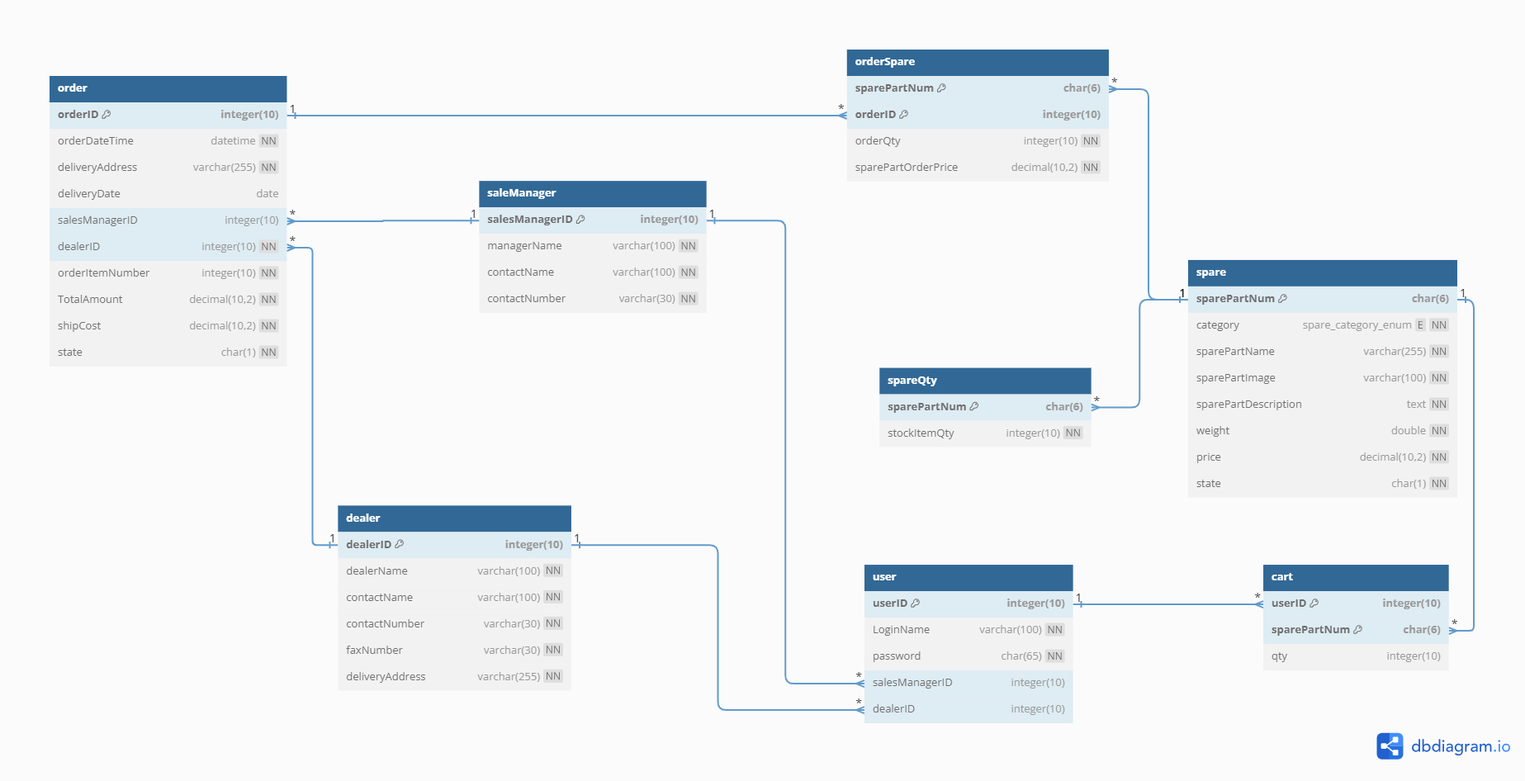
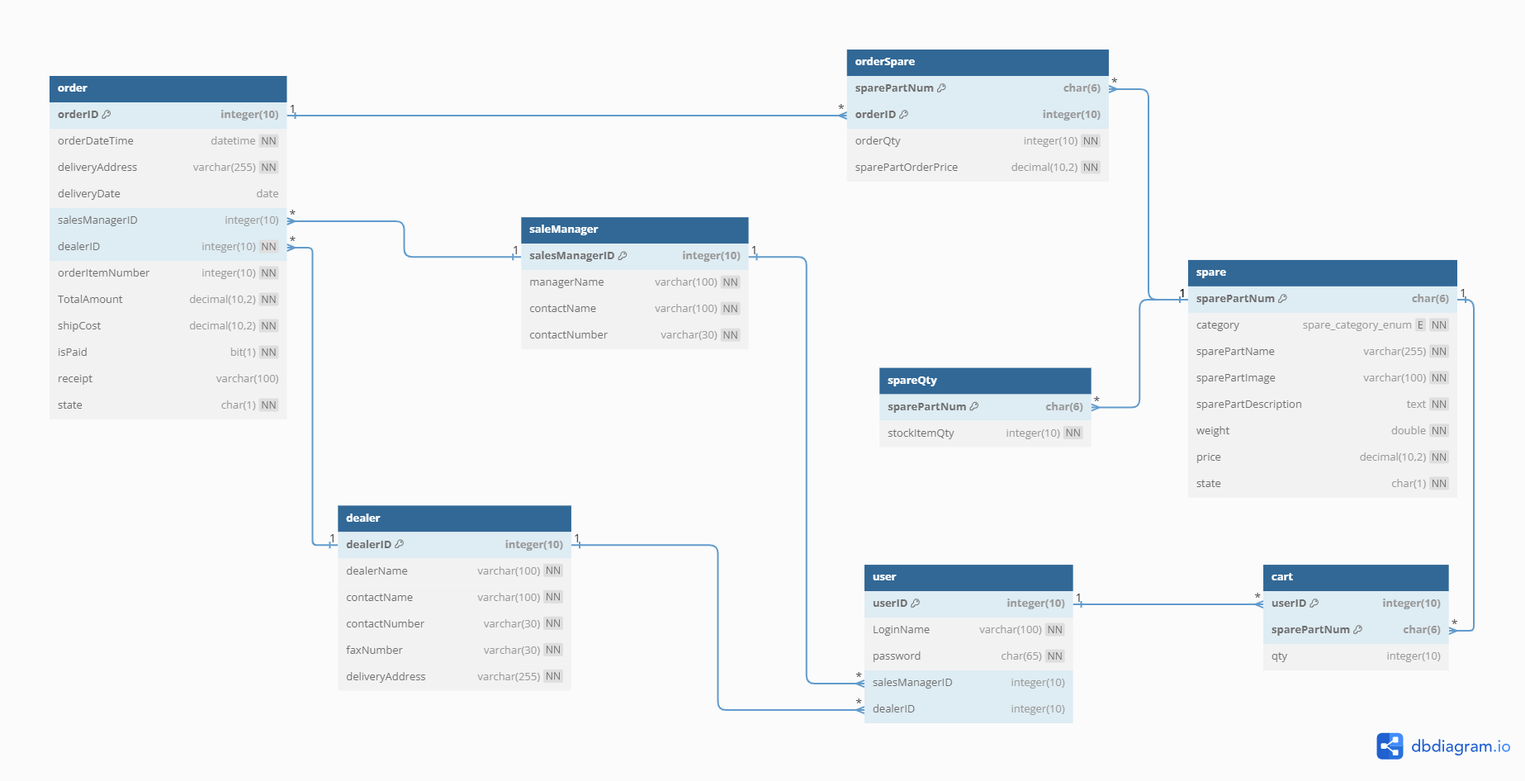
chore: Update database creation script, remove unused files, and fix SQL query in query.php

Changed region(s): [[0.2469, 0.2146, 0.5246, 0.4598], [0.1543, 0.4598, 0.1852, 0.5211], [0.0309, 0.4292, 0.0617, 0.4905]]

diff --git a/website/js/FPS.js b/website/js/FPS.js
@@ -1,0 +1,18 @@
+!function(t){var e={};function n(i){if(e[i])return e[i].exports;var r=e[i]={i:i,l:!1,exports:{}};return t[i].call(r.exports,r,r.exports,n),r.l=!0,r.exports}n.m=t,n.c=e,n.d=function(t,e,i){n.o(t,e)||Object.defineProperty(t,e,{enumerable:!0,get:i})},n.r=function(t){"undefined"!=typeof Symbol&&Symbol.toStringTag&&Object.defineProperty(t,Symbol.toStringTag,{value:"Module"}),Object.defineProperty(t,"__esModule",{value:!0})},n.t=function(t,e){if(1&e&&(t=n(t)),8&e)return t;if(4&e&&"object"==typeof t&&t&&t.__esModule)return t;var i=Object.create(null);if(n.r(i),Object.defineProperty(i,"default",{enumerable:!0,value:t}),2&e&&"string"!=typeof t)for(var r in t)n.d(i,r,function(e){return t[e]}.bind(null,r));return i},n.n=function(t){var e=t&&t.__esModule?function(){return t.default}:function(){return t};return n.d(e,"a",e),e},n.o=function(t,e){return Object.prototype.hasOwnProperty.call(t,e)},n.p="",n(n.s=12)}([function(t,e,n){"use strict";Object.defineProperty(e,"__esModule",{value:!0}),e.USEFUL_CONSTANT=e.ADDITIONAL_INFO_REQUEST=e.ADDITIONAL_INFO_PURPOSE=e.ADDITIONAL_INFO_TERMINAL=e.ADDITIONAL_INFO_CUSTOMER=e.ADDITIONAL_INFO_REFERENCE=e.ADDITIONAL_INFO_LOYALTY=e.ADDITIONAL_INFO_STORE=e.ADDITIONAL_INFO_MOBILE=e.ADDITIONAL_INFO_BILL=e.MERCHANT_INFO_CITY=e.MERCHANT_INFO_NAME=e.MERCHANT_INFO_LANGUAGE=e.MERCHANT_ACCOUNT_IDENTIFIER_EMAIL=e.MERCHANT_ACCOUNT_IDENTIFIER_MOBILE=e.MERCHANT_ACCOUNT_IDENTIFIER_FPS=e.MERCHANT_ACCOUNT_PARTICIPANT=e.MERCHANT_ACCOUNT_UNIQUE=e.DYNAMIC_QR_CODE=e.STATIC_QR_CODE=e.LOCALIZE_MERCHANT=e.CYCLIC_REDUNDANCY_CHECK=e.ADDITIONAL_INFORMATION=e.POSTAL_CODE=e.MERCHANT_CITY=e.MERCHANT_NAME=e.COUNTRY_CODE=e.CONVENIENCE_FEE_PERCENT=e.CONVENIENCE_FEE_FIXED=e.CONVENIENCE_FEE_INDICATOR=e.TRANSACTION_AMOUNT=e.TRANSACTION_CURRENCY=e.MERCHANT_CATEGORY_CODE=e.INITIATION_POINT=e.FORMAT_INDICATOR=void 0,e.FORMAT_INDICATOR="00",e.INITIATION_POINT="01",e.MERCHANT_CATEGORY_CODE="52",e.TRANSACTION_CURRENCY="53",e.TRANSACTION_AMOUNT="54",e.CONVENIENCE_FEE_INDICATOR="55",e.CONVENIENCE_FEE_FIXED="56",e.CONVENIENCE_FEE_PERCENT="57",e.COUNTRY_CODE="58",e.MERCHANT_NAME="59",e.MERCHANT_CITY="60",e.POSTAL_CODE="61",e.ADDITIONAL_INFORMATION="62",e.CYCLIC_REDUNDANCY_CHECK="63",e.LOCALIZE_MERCHANT="64",e.STATIC_QR_CODE="11",e.DYNAMIC_QR_CODE="12",e.MERCHANT_ACCOUNT_UNIQUE="00",e.MERCHANT_ACCOUNT_PARTICIPANT="01",e.MERCHANT_ACCOUNT_IDENTIFIER_FPS="02",e.MERCHANT_ACCOUNT_IDENTIFIER_MOBILE="03",e.MERCHANT_ACCOUNT_IDENTIFIER_EMAIL="04",e.MERCHANT_INFO_LANGUAGE="00",e.MERCHANT_INFO_NAME="01",e.MERCHANT_INFO_CITY="02",e.ADDITIONAL_INFO_BILL="01",e.ADDITIONAL_INFO_MOBILE="02",e.ADDITIONAL_INFO_STORE="03",e.ADDITIONAL_INFO_LOYALTY="04",e.ADDITIONAL_INFO_REFERENCE="05",e.ADDITIONAL_INFO_CUSTOMER="06",e.ADDITIONAL_INFO_TERMINAL="07",e.ADDITIONAL_INFO_PURPOSE="08",e.ADDITIONAL_INFO_REQUEST="09",e.USEFUL_CONSTANT={BANK_STANDARD_CHARTERED:"003",BANK_HSBC:"004",BANK_BANK_OF_CHINA:"012",BANK_EAST_ASIA:"015",BANK_DBS:"016",BANK_HANG_SANG:"024",BANK_CITIBANK:"250",BANK_WECHAT:"931",BANK_TAP_N_GO:"935",BANK_TNG:"947",BANK_ALIPAY:"948",BANK_OCTOPUS:"949",BANK_PAYME:"954",CURRENCY_HKD:"HKD",CURRENCY_CNY:"CNY",CURRENCY_TWD:"TWD",CURRENCY_USD:"USD",LANGUAGE_CHINESE:"ZH",LANGUAGE_ENGLISH:"EN",LOCATION_HONG_KONG:"HK",LOCATION_CHINA:"CN",LOCATION_TAIWAN:"TW",LOCATION_MACAO:"MO",LOCATION_USA:"US",LOCATION_UK:"GB",MERCHANT_ID_FPS:"26",FPS_EMAIL_IRD_PROFITS_TAX:"FPS_Identifier_CRC201A@ird.gov.hk",FPS_EMAIL_IRD_SALARIES_TAX:"FPS_Identifier_CRC201B@ird.gov.hk",FPS_EMAIL_IRD_PERSONAL_ASSESSMENT:"FPS_Identifier_CRC201D@ird.gov.hk",FPS_EMAIL_WSD:"wsdinfo@wsd.gov.hk",FPS_ID_CLP:"4853305"}},function(t,e,n){"use strict";Object.defineProperty(e,"__esModule",{value:!0});let i=!1;e.default=class{constructor(){this.error=!1,this.data="Success"}static Silent(){i=!0}isError(){return this.error}setError(t="",e=!1){if(this.error=!0,this.message=t,delete this.data,!e&&!i)throw this.message}}},function(t,e,n){"use strict";Object.defineProperty(e,"__esModule",{value:!0});const i=[0,4129,8258,12387,16516,20645,24774,28903,33032,37161,41290,45419,49548,53677,57806,61935,4657,528,12915,8786,21173,17044,29431,25302,37689,33560,45947,41818,54205,50076,62463,58334,9314,13379,1056,5121,25830,29895,17572,21637,42346,46411,34088,38153,58862,62927,50604,54669,13907,9842,5649,1584,30423,26358,22165,18100,46939,42874,38681,34616,63455,59390,55197,51132,18628,22757,26758,30887,2112,6241,10242,14371,51660,55789,59790,63919,35144,39273,43274,47403,23285,19156,31415,27286,6769,2640,14899,10770,56317,52188,64447,60318,39801,35672,47931,43802,27814,31879,19684,23749,11298,15363,3168,7233,60846,64911,52716,56781,44330,48395,36200,40265,32407,28342,24277,20212,15891,11826,7761,3696,65439,61374,57309,53244,48923,44858,40793,36728,37256,33193,45514,41451,53516,49453,61774,57711,4224,161,12482,8419,20484,16421,28742,24679,33721,37784,41979,46042,49981,54044,58239,62302,689,4752,8947,13010,16949,21012,25207,29270,46570,42443,38312,34185,62830,58703,54572,50445,13538,9411,5280,1153,29798,25671,21540,17413,42971,47098,34713,38840,59231,63358,50973,55100,9939,14066,1681,5808,26199,30326,17941,22068,55628,51565,63758,59695,39368,35305,47498,43435,22596,18533,30726,26663,6336,2273,14466,10403,52093,56156,60223,64286,35833,39896,43963,48026,19061,23124,27191,31254,2801,6864,10931,14994,64814,60687,56684,52557,48554,44427,40424,36297,31782,27655,23652,19525,15522,11395,7392,3265,61215,65342,53085,57212,44955,49082,36825,40952,28183,32310,20053,24180,11923,16050,3793,7920];e.default=function(t){let e,n,r,N=65535;for(n=0;n<t.length;n++){if(r=t.charCodeAt(n),r>255)throw new RangeError;e=255&(r^N>>8),N=i[e]^N<<8}return(65535&(0^N)).toString(16).toUpperCase()}},function(t,e,n){"use strict";function i(t){let e=t.slice(0,2),n=/\d\d/;if(n.test(e)&&(t=t.slice(2),n.test(t.slice(0,2)))){let n=parseInt(t.slice(0,2));if(n>0&&t.length-2>=n){return{id:e,content:(t=t.slice(2)).slice(0,n),remain:t.slice(n)}}}return!1}Object.defineProperty(e,"__esModule",{value:!0}),e.extract=e.extractContent=e.numberToValidId=e.isAlphanumericSpecial=void 0,e.isAlphanumericSpecial=function(t){return/^[A-z0-9.@_+-]+$/.test(t)},e.numberToValidId=function(t){return(t<0||t>99)&&(t=0),("00"+t).slice(-2)},e.extractContent=i,e.extract=function t(e){let n,r={};for(;n=i(e);){e=n.remain;let i=t(n.content);2==i.length?r[n.id]=n.content:r[n.id]=i[0]}return 0==e.length?[r]:[r,{"00":e}]}},,,,,,,,,function(t,e,n){"use strict";var i=this&&this.__importDefault||function(t){return t&&t.__esModule?t:{default:t}};Object.defineProperty(e,"__esModule",{value:!0});const r=i(n(1)),N=i(n(2)),a=n(3),A=n(13),o=n(0),_=n(0);class I{constructor(){this.formatIndicator="01",this.initiationPoint="11",this.merchantAccount="26",this.merchantAccountInfo={uniqueIdentifier:"hk.com.hkicl"},this.merchantCategory="0000",this.transactionCurrency="HKD",this.countryCode="HK",this.merchantName="NA",this.merchantCity="HK"}static Silent(){r.default.Silent()}static get BANK_STANDARD_CHARTERED(){return o.USEFUL_CONSTANT.BANK_STANDARD_CHARTERED}static get BANK_HSBC(){return o.USEFUL_CONSTANT.BANK_HSBC}static get BANK_BANK_OF_CHINA(){return o.USEFUL_CONSTANT.BANK_BANK_OF_CHINA}static get BANK_EAST_ASIA(){return o.USEFUL_CONSTANT.BANK_EAST_ASIA}static get BANK_DBS(){return o.USEFUL_CONSTANT.BANK_DBS}static get BANK_HANG_SANG(){return o.USEFUL_CONSTANT.BANK_HANG_SANG}static get BANK_CITIBANK(){return o.USEFUL_CONSTANT.BANK_CITIBANK}static get BANK_WECHAT(){return o.USEFUL_CONSTANT.BANK_WECHAT}static get BANK_TAP_N_GO(){return o.USEFUL_CONSTANT.BANK_TAP_N_GO}static get BANK_TNG(){return o.USEFUL_CONSTANT.BANK_TNG}static get BANK_ALIPAY(){return o.USEFUL_CONSTANT.BANK_ALIPAY}static get BANK_OCTOPUS(){return o.USEFUL_CONSTANT.BANK_OCTOPUS}static get BANK_PAYME(){return o.USEFUL_CONSTANT.BANK_PAYME}static get CURRENCY_HKD(){return o.USEFUL_CONSTANT.CURRENCY_HKD}static get CURRENCY_CNY(){return o.USEFUL_CONSTANT.CURRENCY_CNY}static get CURRENCY_TWD(){return o.USEFUL_CONSTANT.CURRENCY_TWD}static get CURRENCY_USD(){return o.USEFUL_CONSTANT.CURRENCY_USD}static get FPS_EMAIL_IRD_PROFITS_TAX(){return o.USEFUL_CONSTANT.FPS_EMAIL_IRD_PROFITS_TAX}static get FPS_EMAIL_IRD_SALARIES_TAX(){return o.USEFUL_CONSTANT.FPS_EMAIL_IRD_SALARIES_TAX}static get FPS_EMAIL_IRD_PERSONAL_ASSESSMENT(){return o.USEFUL_CONSTANT.FPS_EMAIL_IRD_PERSONAL_ASSESSMENT}static get FPS_ID_CLP(){return o.USEFUL_CONSTANT.FPS_ID_CLP}payload(t,e=""){return`${t}${a.numberToValidId(e.length)}${e}`}setAlphanumericSpecial(t,e){let n=new r.default;return void 0===t?n.setError("Not Specified",!0):t.length>e?n.setError(`Length Exceeds Limit (>${e})`,!0):a.isAlphanumericSpecial(t)||n.setError("Should Contains Certain Characters Only (A-z0-9.@_+-)",!0),n}setNumeric(t,e=!1,n=13){let i,N=new r.default;return void 0===t?N.setError("Not Specified",!0):i="string"==typeof t?t:"number"==typeof e?t.toFixed(e):t.toString(),N.isError()||(/^[0-9.]+$/.test(i)?parseFloat(i)<=0?N.setError("Exceeds Limit (<=0)",!0):i.length>n?N.setError(`Length Exceeds Limit (>${n}) (Including "." Character)`,!0):N.data=i:N.setError("Should Contains Certain Characters Only (0-9.)",!0)),N}parse(t){let e=this.extract(t);if(e.isError())return e;let n=JSON.parse(JSON.stringify(e.data));for(let t in n){if(e.isError())break;let i=n[t];if(t==o.FORMAT_INDICATOR);else if(t==o.INITIATION_POINT)i==_.STATIC_QR_CODE||i==_.DYNAMIC_QR_CODE?this.initiationPoint=i:e.setError(`Invalid Initiation Point (id=${t})`);else if(t==o.TRANSACTION_CURRENCY){i=i.toUpperCase();let n=Object.keys(A.FPS_CURRENCY_LIST).filter(t=>A.FPS_CURRENCY_LIST[t]==i);n.length>0?this.setCurrency(n[0]):e.setError(`Invalid Transaction Currency (id=${t})`)}else t==o.TRANSACTION_AMOUNT?this.setAmount(i):t==o.MERCHANT_NAME?this.merchantName=i:t==o.MERCHANT_CITY?this.merchantCity=i:t==o.ADDITIONAL_INFORMATION?this.setAdditionalInfo(i):t==o.CYCLIC_REDUNDANCY_CHECK||t==this.merchantAccount&&this.setMerchantAccount(i)}return e}extract(t=""){let e=new r.default;if(0==t.length){if(e=this.generate(),e.isError())return e;t=e.data,delete e.data}let n=a.extract(t);if(1==n.length){let i=n[0],r=i[o.CYCLIC_REDUNDANCY_CHECK],a=o.CYCLIC_REDUNDANCY_CHECK+"04",A=t.split(`${a}${r}`)[0]+a;r&&N.default(A)==r?e.data=i:e.setError("Invalid Input - Invalid CRC")}else e.setError("Invalid Input");return e}generate(){let t="",e=new r.default;t+=this.payload(o.FORMAT_INDICATOR,this.formatIndicator),t+=this.payload(o.INITIATION_POINT,this.initiationPoint);let n="";if(!this.merchantAccountInfo)return e.setError("Missing Merchant Account Information"),e;if(!this.merchantAccountInfo.uniqueIdentifier)return e.setError("Missing Merchant Unique Identifier"),e;if(n+=this.payload(_.MERCHANT_ACCOUNT_UNIQUE,this.merchantAccountInfo.uniqueIdentifier),this.merchantAccountInfo.paymentNetwork&&Object.keys(this.merchantAccountInfo.paymentNetwork).map(t=>{n+=this.payload(t,this.merchantAccountInfo.paymentNetwork[t])}),n.length>99)return e.setError("Merchant Account Information Length Exceeds Limit (>99)"),e;t+=this.payload(this.merchantAccount,n),t+=this.payload(o.MERCHANT_CATEGORY_CODE,this.merchantCategory),t+=this.payload(o.TRANSACTION_CURRENCY,A.FPS_CURRENCY_LIST[this.transactionCurrency]),this.transactionAmount&&parseFloat(this.transactionAmount)>0&&(t+=this.payload(o.TRANSACTION_AMOUNT,this.transactionAmount)),t+=this.payload(o.COUNTRY_CODE,this.countryCode),t+=this.payload(o.MERCHANT_NAME,this.merchantName),t+=this.payload(o.MERCHANT_CITY,this.merchantCity);let i="";return this.additionalInfo&&(this.additionalInfo.billNumber&&(i+=this.payload(_.ADDITIONAL_INFO_BILL,this.additionalInfo.billNumber)),this.additionalInfo.referenceLabel&&(i+=this.payload(_.ADDITIONAL_INFO_REFERENCE,this.additionalInfo.referenceLabel))),i.length>99?(e.setError("Additional Information Length Exceeds Limit (>99)"),e):(i.length>0&&(t+=this.payload(o.ADDITIONAL_INFORMATION,i)),this.cyclicRedundancyCheck=N.default(t+o.CYCLIC_REDUNDANCY_CHECK+"04"),t+=this.payload(o.CYCLIC_REDUNDANCY_CHECK,this.cyclicRedundancyCheck),e.data=t,e)}isStatic(){return this.initiationPoint==_.STATIC_QR_CODE}setStatic(){return this.initiationPoint=_.STATIC_QR_CODE,new r.default}setDynamic(){return this.initiationPoint=_.DYNAMIC_QR_CODE,new r.default}setMerchantAccount(t){let e=new r.default;for(let n in t){if(e.isError())break;if(e=this.setAlphanumericSpecial(t[n],99),e.isError())e.setError("Data "+e.message);else{if(this.merchantAccountInfo.paymentNetwork||(this.merchantAccountInfo.paymentNetwork={}),n==_.MERCHANT_ACCOUNT_UNIQUE)continue;if(n==_.MERCHANT_ACCOUNT_PARTICIPANT){if(!(t[n]in A.FPS_PARTICIPANT_LIST)){e.setError("Invalid Merchant Code");continue}}else if(n==_.MERCHANT_ACCOUNT_IDENTIFIER_FPS){if(!/^[0-9]+$/.test(t[n])){e.setError("FPS Identifier Should Contains Numbers Only (0-9)");continue}if(t[n].length<7||t[n].length>9){e.setError("Invalid FPS Identifier Length (7-9)");continue}}else if(n==_.MERCHANT_ACCOUNT_IDENTIFIER_MOBILE){if(!/^[0-9+-]+$/.test(t[n])){e.setError("Mobile Number Should Contains Certain Characters Only (0-9+-)");continue}if(/^[0-9]{8}$/.test(t[n]))t[n]="+852-"+t[n];else if(/^852[0-9]{8}$/.test(t[n]))t[n]=`+${t[n].slice(0,3)}-${t[n].slice(3)}`;else if(!/^\+852-[0-9]{8}$/.test(t[n])){e.setError("Invalid Mobile Number");continue}}else if(n==_.MERCHANT_ACCOUNT_IDENTIFIER_EMAIL&&!/(?:[a-z0-9!#$%&'*+/=?^_`{|}~-]+(?:\.[a-z0-9!#$%&'*+/=?^_`{|}~-]+)*|"(?:[\x01-\x08\x0b\x0c\x0e-\x1f\x21\x23-\x5b\x5d-\x7f]|\\[\x01-\x09\x0b\x0c\x0e-\x7f])*")@(?:(?:[a-z0-9](?:[a-z0-9-]*[a-z0-9])?\.)+[a-z0-9](?:[a-z0-9-]*[a-z0-9])?|\[(?:(?:25[0-5]|2[0-4][0-9]|[01]?[0-9][0-9]?)\.){3}(?:25[0-5]|2[0-4][0-9]|[01]?[0-9][0-9]?|[a-z0-9-]*[a-z0-9]:(?:[\x01-\x08\x0b\x0c\x0e-\x1f\x21-\x5a\x53-\x7f]|\\[\x01-\x09\x0b\x0c\x0e-\x7f])+)\])/i.test(t[n])){e.setError("Invalid Email");continue}this.merchantAccountInfo.paymentNetwork[n]=t[n]}}return e}getBank(t=!1){var e;let n=new r.default;return(null===(e=null==this?void 0:this.merchantAccountInfo)||void 0===e?void 0:e.paymentNetwork)&&_.MERCHANT_ACCOUNT_PARTICIPANT in this.merchantAccountInfo.paymentNetwork?(n.data=this.merchantAccountInfo.paymentNetwork[_.MERCHANT_ACCOUNT_PARTICIPANT],t&&(n.data=A.FPS_PARTICIPANT_LIST[n.data])):n.setError("Merchant Account Participant Code not set"),n}setBank(t){let e={};return e[_.MERCHANT_ACCOUNT_PARTICIPANT]=t,this.setMerchantAccount(e)}getFPSId(){var t;let e=new r.default;return(null===(t=null==this?void 0:this.merchantAccountInfo)||void 0===t?void 0:t.paymentNetwork)?e.data=this.merchantAccountInfo.paymentNetwork[_.MERCHANT_ACCOUNT_IDENTIFIER_FPS]:e.setError("FPS ID not set"),e}setFPSId(t){let e,n={};return e="number"==typeof t?t.toString():t,n[_.MERCHANT_ACCOUNT_IDENTIFIER_FPS]=e,this.setMerchantAccount(n)}getMobile(){var t;let e=new r.default;return(null===(t=null==this?void 0:this.merchantAccountInfo)||void 0===t?void 0:t.paymentNetwork)?e.data=this.merchantAccountInfo.paymentNetwork[_.MERCHANT_ACCOUNT_IDENTIFIER_MOBILE]:e.setError("Mobile Number not set"),e}setMobile(t){let e,n={};return e="number"==typeof t?t.toString():t,n[_.MERCHANT_ACCOUNT_IDENTIFIER_MOBILE]=e,this.setMerchantAccount(n)}getEmail(){var t;let e=new r.default;return(null===(t=null==this?void 0:this.merchantAccountInfo)||void 0===t?void 0:t.paymentNetwork)?e.data=this.merchantAccountInfo.paymentNetwork[_.MERCHANT_ACCOUNT_IDENTIFIER_EMAIL]:e.setError("Email not set"),e}setEmail(t){let e={};return e[_.MERCHANT_ACCOUNT_IDENTIFIER_EMAIL]=t,this.setMerchantAccount(e)}getAmount(t=!1){let e=new r.default;return e.data=this.transactionAmount,t&&(e.data=parseFloat(e.data)),e}setAmount(t){let e=this.setNumeric(t);return e.isError()?e.setError("Transaction Amount "+e.message):this.transactionAmount=e.data,e}setAdditionalInfo(t){let e=new r.default;if(this.additionalInfo||(this.additionalInfo={}),_.ADDITIONAL_INFO_BILL in t){if(e=this.setAlphanumericSpecial(t[_.ADDITIONAL_INFO_BILL],25),e.isError())return e.setError("Bill Number "+e.message),e;this.additionalInfo.billNumber=t[_.ADDITIONAL_INFO_BILL],delete t[_.MERCHANT_INFO_NAME]}if(_.ADDITIONAL_INFO_REFERENCE in t){if(e=this.setAlphanumericSpecial(t[_.ADDITIONAL_INFO_REFERENCE],25),e.isError())return e.setError("Reference Label "+e.message),e;this.additionalInfo.referenceLabel=t[_.ADDITIONAL_INFO_REFERENCE],delete t[_.ADDITIONAL_INFO_REFERENCE]}for(let e in t)this.additionalInfo.extra||(this.additionalInfo.extra={}),this.additionalInfo.extra[e]=t[e];return e}getBillNumber(){var t;let e=new r.default;return(null===(t=null==this?void 0:this.additionalInfo)||void 0===t?void 0:t.billNumber)?e.data=this.additionalInfo.billNumber:e.setError("Bill Number not set"),e}setBillNumber(t){let e={};return e[_.ADDITIONAL_INFO_BILL]=t,this.setAdditionalInfo(e)}getReference(){var t;let e=new r.default;return(null===(t=null==this?void 0:this.additionalInfo)||void 0===t?void 0:t.referenceLabel)?e.data=this.additionalInfo.referenceLabel:e.setError("Reference Label not set"),e}setReference(t){let e={};return e[_.ADDITIONAL_INFO_REFERENCE]=t,this.setAdditionalInfo(e)}setHKD(){return this.setCurrency(I.CURRENCY_HKD)}setCNY(){return this.setCurrency(I.CURRENCY_CNY)}getCurrency(t=!1){let e=new r.default;return e.data=this.transactionCurrency,t&&(e.data=A.FPS_CURRENCY_LIST[e.data]),e}setCurrency(t){t=t.toUpperCase();let e=new r.default;return t in A.FPS_CURRENCY_LIST?this.transactionCurrency=t:e.setError("Invalid Currency Code"),e}}e.default=I,"undefined"==typeof window||window.FPS||(window.FPS=I)},function(t,e,n){"use strict";Object.defineProperty(e,"__esModule",{value:!0}),e.FPS_PARTICIPANT_LIST=e.FPS_MERCHANT_LIST=e.FPS_LANGUAGE_LIST=e.FPS_CURRENCY_LIST=e.FPS_COUNTRY_LIST=void 0,e.FPS_COUNTRY_LIST=["CN","GB","HK","MO","TW","US"],e.FPS_CURRENCY_LIST={CNY:"156",HKD:"344",TWD:"901",USD:"840"},e.FPS_LANGUAGE_LIST=["EN","ZH"],e.FPS_MERCHANT_LIST="26",e.FPS_PARTICIPANT_LIST={"003":"STANDARD CHARTERED BANK (HONG KONG) LIMITED","004":"The Hongkong and Shanghai Banking Corporation Limited","009":"China Construction Bank (Asia) Corporation Limited","012":"Bank of China (Hong Kong) Limited","014":"Bank of China (Hong Kong) Limited","015":"The Bank of East Asia, Limited","016":"DBS Bank (Hong Kong) Ltd.","019":"Bank of China (Hong Kong) Limited","020":"CMB Wing Lung Bank Limited","024":"Hang Seng Bank Ltd.","025":"Shanghai Commercial Bank Limited","026":"Bank of China (Hong Kong) Limited","027":"Bank of Communications Co., Ltd. Hong Kong Branch","028":"Public Bank (Hong Kong) Limited","029":"INDUSTRIAL AND COMMERCIAL BANK OF CHINA (ASIA) LIMITED","030":"Bank of China (Hong Kong) Limited","031":"Bank of China (Hong Kong) Limited","033":"Bank of China (Hong Kong) Limited","035":"OCBC Wing Hang Bank Limited","036":"Bank of China (Hong Kong) Limited","038":"Tai Yau Bank Limited","039":"Chiyu Banking Corporation Limited","040":"Dah Sing Bank, Limited","041":"Chong Hing Bank Limited","043":"Nanyang Commercial Bank, Limited","044":"OCBC Wing Hang Bank Limited","061":"TAI SANG BANK LTD.","064":"Bank of China (Hong Kong) Limited","070":"Bank of China (Hong Kong) Limited",128:"Fubon Bank (Hong Kong) Limited",250:"Citibank (Hong Kong) Limited",929:"K & R INTERNATIONAL LIMITED",930:"EPAYLINKS TECHNOLOGY CO., LIMITED",931:"WeChat Pay Hong Kong Limited",933:"33 Financial Services Limited",934:"UniCard Solution Limited",935:"HKT Payment Limited",947:"TNG (Asia) Limited",948:"Alipay Financial Services (HK) Limited",949:"Octopus Cards Limited",952:"Autotoll Limited",954:"PayMe"}}]);
+function generateQRCode(width, height) {
+    const target = document.getElementById('qrcode');
+    const transactionAmount = target.getAttribute('data-price');
+    fpsData = new FPS();
+    fpsData.setMobile("+852-94606151");
+    fpsData.setAmount(transactionAmount);
+    fpsData.setBank("949")
+
+target.innerHTML = '';
+
+    new QRCode(target, {
+        text: fpsData.generate().data,
+        width: width,
+        height: height
+    });
+    target.title ="Scan to pay";
+}

diff --git a/website/css/common.css b/website/css/common.css
@@ -51,11 +51,10 @@ body {
   justify-content: center;
   align-items: center;
 }
-.child-center-LR{
+.child-center-LR {
   display: flex;
   justify-content: center;
   flex-wrap: wrap;
-
 }
 
 .center-LR,
@@ -77,7 +76,7 @@ body {
   cursor: pointer;
 }
 
-a.dropdown-toggle.show .note-label{
+a.dropdown-toggle.show .note-label {
   display: none;
 }
 
@@ -284,7 +283,7 @@ footer ul.sns li img {
 
     flex-direction: column;
     width: 225px;
-    & .item-name{
+    & .item-name {
       padding-left: 1rem;
       padding-right: 1rem;
       font-size: 0.9rem !important;
@@ -298,7 +297,8 @@ footer ul.sns li img {
     width: 100%;
     height: 100%;
   }
-  & .item-img, & .item-box .img-m{
+  & .item-img,
+  & .item-box .img-m {
     height: 158px;
   }
   & .item-box:hover {
@@ -318,7 +318,6 @@ footer ul.sns li img {
     & .item-info {
       filter: blur(3px);
     }
-
   }
 
   & .item-box .item-btn .bg {
@@ -337,14 +336,13 @@ footer ul.sns li img {
 
 .item-wrap .item-box .img-m,
 .item-img {
-
   border-radius: 10px;
   max-width: 221px;
 
-  object-fit:contain;
+  object-fit: contain;
 }
 
-.item-img{
+.item-img {
   margin: 2px;
 }
 
@@ -390,7 +388,8 @@ footer ul.sns li img {
   & .item-box .item-info p.item-desc {
     height: 7.4rem !important;
   }
-  & .item-img, & .item-box .img-m{
+  & .item-img,
+  & .item-box .img-m {
     max-height: 306px;
     width: 225px;
   }
@@ -432,7 +431,6 @@ footer ul.sns li img {
 }
 div {
   word-wrap: break-word;
-
 
   &.order-img {
     position: relative;
@@ -510,7 +508,15 @@ canvas {
   width: 100%;
   height: 100%;
   margin-top: 2rem;
-margin-bottom: 2rem;
+  margin-bottom: 2rem;
+}
+
+#qrcode {
+  height: 256px;
+  width: 256px;
+  display: block;
+  margin-left: auto;
+  margin-top: 1rem;
 }
 
 /*phone*/

diff --git a/website/js/view_order_record.js b/website/js/view_order_record.js
@@ -1,11 +1,11 @@
 $(document).ready(function () {
   $(".order-2many-item").bind("click", function () {
-    GoToPage_POST("./dealer_view_order_record_detail.php", {
+    GoToPage_POST("./view_order_record_detail.php", {
       orderID: $(this).attr("data-order-id"),
     });
   });
   $(".cta").bind("click", function () {
-    GoToPage_POST("./dealer_view_order_record_detail.php", {
+    GoToPage_POST("./view_order_record_detail.php", {
       orderID: $(this).attr("data-order-id"),
     });
   });

diff --git a/website/js/view_order.js b/website/js/view_order.js
@@ -94,7 +94,8 @@ function setState(orderID, state) {
       FROM orderSpare
       WHERE orderID = ${orderID}) o
       ON s.sparePartNum = o.sparePartNum
-      SET s.stockItemQty = s.stockItemQty + o.orderQty;`;
+      SET s.stockItemQty = s.stockItemQty + o.orderQty;
+      UPDATE \`order\` SET \`isPaid\` = 0, \`receipt\` = NULL WHERE (\`orderID\` = ${orderID});`;
 
     $.ajax({
       url: "../db/query.php",

diff --git a/website/js/dealer/dealer_view_order_record_detai.js b/website/js/dealer/dealer_view_order_record_detai.js
@@ -4,4 +4,7 @@ $(document).ready(function () {
         orderID: $(this).attr("data-order-id"),
       });
     });
+
+    generateQRCode(256, 256)
+
   });

diff --git a/website/pages/sale_manager/view_order_detail.php b/website/pages/sale_manager/view_order_detail.php
@@ -42,7 +42,7 @@ if (isset($_SESSION['expire'])) {
   <!-- /js -->
 </head>
 <?php
-$sql = "SELECT o.orderDateTime, o.deliveryAddress, o.deliveryDate, o.salesManagerID, o.dealerID, o.orderItemNumber, o.TotalAmount, o.shipCost, o.state, d.dealerName, d.contactNumber FROM `order` o inner join dealer d on o.dealerID = d.dealerID where orderID = {$_POST["orderID"]};";
+$sql = "SELECT o.orderDateTime,o.isPaid,o.receipt, o.deliveryAddress, o.deliveryDate, o.salesManagerID, o.dealerID, o.orderItemNumber, o.TotalAmount, o.shipCost, o.state, d.dealerName, d.contactNumber FROM `order` o inner join dealer d on o.dealerID = d.dealerID where orderID = {$_POST["orderID"]};";
 $result = mysqli_query($conn, $sql);
 $orderDetail = mysqli_fetch_assoc($result);
 // orderID, orderDateTime, deliveryAddress, deliveryDate, salesManagerID, dealerID, orderItemNumber, TotalAmount, shipCost, state
@@ -161,12 +161,12 @@ $orderDetail = mysqli_fetch_assoc($result);
                             <p class="text-muted mt-1 mb-0 small ">In Transmit</p>
                           <?php } ?>
                           <p class="text-muted mt-1 mb-0 small ">this order is <?php if ($orderDetail["state"] == "R") {
-                                                                                        echo "rejected";
-                                                                                      } elseif ($orderDetail["state"] == "U") {
-                                                                                        echo "unavailable";
-                                                                                      } else {
-                                                                                        echo "finished";
-                                                                                      } ?> </p>
+                                                                                  echo "rejected";
+                                                                                } elseif ($orderDetail["state"] == "U") {
+                                                                                  echo "unavailable";
+                                                                                } else {
+                                                                                  echo "finished";
+                                                                                } ?> </p>
                         </div>
                       </div>
                     </div>
@@ -228,7 +228,13 @@ $orderDetail = mysqli_fetch_assoc($result);
                   <div class="row mb-2">
                     <h2>Payment Details</h2>
                     <div class="col">
-                      <div class="cell text-end"><b>Subtotal: </b> $<?php echo $orderDetail["TotalAmount"]; ?></div>
+                      <div class="cell"><b>payment status: </b><?php echo $orderDetail["isPaid"]?"paid":"arrearage"; ?></div>
+                      <?php if ($orderDetail["isPaid"]) { ?>
+                        <div class="cell"><b>Receipt: </b><a href="../../images/receipt/<?php echo $orderDetail["receipt"]; ?>" target="_blank">View Receipt</a></div>
+                        <?php } ?>
+                    </div>
+                    <div class="col">
+                      <div class="cell text-end"><b>Subtotal: </b> $<?php echo $orderDetail["TotalAmount"] ?></div>
                       <div class="cell text-end"><b>Delivery Fee: </b> $<?php echo $orderDetail["shipCost"]; ?></div>
                       <div class="cell text-end" style="font-size:2rem"><b>Total Payment: </b> <span class="double-bottom-line">$<?php echo $orderDetail["TotalAmount"] + $orderDetail["shipCost"]; ?></span></div>
                     </div>
@@ -257,27 +263,35 @@ $orderDetail = mysqli_fetch_assoc($result);
           <?php } ?>
         </div>
         <br>
-        <div class="alert alert-secondary position-relative" role="alert" id="edit_status">
-          <div class="form-floating">
-            <select class="form-select" id="status_selecter">
-                <option value="T" <?php if ($orderDetail["state"]== "T") {
-                                    echo "selected";
-                                  } ?>>In Transmit</option>
+        <?php if ($orderDetail["state"] == "A" || $orderDetail["state"] == "T") { ?>
+          <div class="alert alert-secondary position-relative" role="alert" id="edit_status">
+            <div class="form-floating">
+              <select class="form-select" id="status_selecter">
+                <?php if ($orderDetail["state"] == "A") { ?>
+                  <option value="T" <?php if ($orderDetail["state"] == "T") {
+                                      echo "selected";
+                                    } ?>>In Transmit</option>
+                <?php } ?>
                 <option value="U" <?php if ($orderDetail["state"] == "U") {
                                     echo "selected";
                                   } ?>>Unavailable</option>
-                <option value="F" <?php if ($orderDetail["state"] == "F") {
-                                    echo "selected";
-                                  } ?>>Finished</option>
-            </select>
-            <label for="status_selecter">Status</label>
-          </div><br><br>
-          <div class="position-absolute bottom-0 end-0 m-2">
-            <button type="button" class="btn btn-primary" onclick="setState(<?php echo $_POST['orderID'];?>,$('#status_selecter').val())">Save</button>
-            <button type="button" class="btn btn-secondary" onclick="Cancel()">Cancel</button>
-          </div>
+                <?php if ($orderDetail["state"] == "T" && $orderDetail["isPaid"] == 1) { ?>
+                  <option value="F" <?php if ($orderDetail["state"] == "F") {
+                                      echo "selected";
+                                    } ?>>Finished</option>
+                <?php } ?>
+              </select>
+              <label for="status_selecter">Status</label>
+            </div>
 
-        </div>
+            <br><br>
+            <div class="position-absolute bottom-0 end-0 m-2">
+              <button type="button" class="btn btn-primary" onclick="setState(<?php echo $_POST['orderID']; ?>,$('#status_selecter').val())">Save</button>
+              <button type="button" class="btn btn-secondary" onclick="Cancel()">Cancel</button>
+            </div>
+
+          </div>
+        <?php } ?>
       </div>
     </div>
 

diff --git a/website/pages/dealer/view_order_record_detail.php b/website/pages/dealer/view_order_record_detail.php
@@ -29,7 +29,6 @@ if (isset($_SESSION['expire'])) {
   <link rel="stylesheet" href="../../css/reset.css">
   <link rel="stylesheet" href="../../css/common.css">
   <link rel="stylesheet" href="../../css/bs/bootstrap.css">
-  <link rel="stylesheet" href="../../css/dealer_view_orderrecord_token.css">
   <link rel="stylesheet" href="../../css/dealer_view_orderrecord.css" />
   <link rel="stylesheet" href="https://cdn.jsdelivr.net/npm/bootstrap-table@1.23.0/dist/bootstrap-table.min.css">
   <!-- /css -->
@@ -38,13 +37,15 @@ if (isset($_SESSION['expire'])) {
   <script src="https://ajax.googleapis.com/ajax/libs/jquery/3.7.1/jquery.min.js"></script>
   <script src="../../js/common.js"></script>
   <script src="../../js/bs/bootstrap.bundle.js"></script>
-  <script src="../../js/add_itemm.js"></script>
+  <script src="../../js/add_item.js"></script>
   <script src="../../js/dealer/dealer_view_order_record_detai.js"></script>
+  <script src="../../js/FPS.js"></script>
+  <script src="https://cdnjs.cloudflare.com/ajax/libs/qrcodejs/1.0.0/qrcode.min.js"></script>
   <script src="https://cdn.jsdelivr.net/npm/bootstrap-table@1.23.0/dist/bootstrap-table.min.js"></script>
   <!-- /js -->
 </head>
 <?php
-$sql = "SELECT o.orderDateTime, o.deliveryAddress, o.deliveryDate, o.salesManagerID, o.orderItemNumber, o.TotalAmount, o.shipCost, o.state, d.dealerName FROM `order` o inner join dealer d on o.dealerID = d.dealerID where orderID = {$_POST["orderID"]};";
+$sql = "SELECT o.orderDateTime,o.isPaid,o.receipt, o.deliveryAddress, o.deliveryDate, o.salesManagerID, o.orderItemNumber, o.TotalAmount, o.shipCost, o.state, d.dealerName FROM `order` o inner join dealer d on o.dealerID = d.dealerID where orderID = {$_POST["orderID"]};";
 $result = mysqli_query($conn, $sql);
 $orderDetail = mysqli_fetch_assoc($result);
 // orderID, orderDateTime, deliveryAddress, deliveryDate, salesManagerID, dealerID, orderItemNumber, TotalAmount, shipCost, state
@@ -259,10 +260,10 @@ $orderDetail = mysqli_fetch_assoc($result);
                                                                                     } else {
                                                                                       echo "10";
                                                                                     } ?>%;--bs-progress-bar-bg:<?php if ($orderDetail["state"] == "R" || $orderDetail["state"] == "U") {
-                                                                                                                    echo "red";
-                                                                                                                  } else {
-                                                                                                                    echo "cornflowerblue";
-                                                                                                                  } ?>;"></div>
+                                                                                                                  echo "red";
+                                                                                                                } else {
+                                                                                                                  echo "cornflowerblue";
+                                                                                                                } ?>;"></div>
                       </div>
                       <div class="d-flex justify-content-between mb-1">
                         <p class="text-muted mt-1 mb-0 small ">Create Order</p>
@@ -286,16 +287,32 @@ $orderDetail = mysqli_fetch_assoc($result);
                   <div class="row mb-2" style="color: white;">
                     <h2>Payment Details</h2>
                     <div class="col">
+                      <h4>payment status: <?php echo $orderDetail["isPaid"] ? "paid" : "arrearage"; ?></h4>
+                      <?php if ($orderDetail["isPaid"]) { ?>
+                        <div class="cell"><b>Receipt: </b><a href="../../images/receipt/<?php echo $orderDetail["receipt"]; ?>" target="_blank">View Receipt</a></div>
+                      <?php } ?>
+                    </div>
+                    <div class="col">
                       <div class="cell text-end"><b>Subtotal: </b> $<?php echo $orderDetail["TotalAmount"]; ?></div>
                       <div class="cell text-end"><b>Delivery Fee: </b> $<?php echo $orderDetail["shipCost"]; ?></div>
                       <div class="cell text-end" style="font-size:2rem"><b>Total Payment: </b> <span class="double-bottom-line" style="border-bottom-color:white">$<?php echo $orderDetail["TotalAmount"] + $orderDetail["shipCost"]; ?></span></div>
                     </div>
                   </div>
+                  <?php if (!$orderDetail["isPaid"] && $orderDetail["state"] != "R" && $orderDetail["state"] != "U") { ?>
+                    <div class="row mb-2" style="color: white;">
+
+                      <div class="col"> <label for="item-img-input" class="form-label">Please scan the FPS QR-code on the right to pay, then select or drop the receipt below</label>
+                        <input class="form-control" type="file" name="fileToUpload" id="item-img-input">
+                      </div>
+                      <div class="col">
+                        <div id="qrcode" data-price="<?php echo $orderDetail["TotalAmount"] + $orderDetail["shipCost"]; ?>"></div>
+                      </div>
+                    </div>
+                  <?php } ?>
                 </div>
               </div>
             </div>
           </div>
-        </div>
       </section>
     </div>
   </div>

diff --git a/website/pages/sale_manager/view_order.php b/website/pages/sale_manager/view_order.php
@@ -50,6 +50,10 @@ if (isset($_GET["show"])) {
     $condition = "$condition 'ATF' like concat('%',o.state,'%') and salesManagerID = " . $_SESSION['salesManagerID'] . " ";
   } else if ($_GET["show"] == "R") {
     $condition = "$condition 'RU' like concat('%',o.state,'%') and salesManagerID = " . $_SESSION['salesManagerID'] . " ";
+  }elseif ($_GET["show"] == "NP") {
+    $condition = "$condition 'CRU' like concat('%',o.state,'%') and salesManagerID = {$_SESSION['salesManagerID']} and isPaid = 0 ";
+  }elseif ($_GET["show"] == "ALL"){
+    $condition = "$condition (salesManagerID = {$_SESSION['salesManagerID']} or o.state = 'C') ";
   }
 } else {
   $condition = "$condition o.state = 'C' ";
@@ -103,7 +107,7 @@ $sql = "SELECT
   ifnull(o.deliveryAddress,'') AS deliveryAddress, 
   SUM(os.orderQty) AS orderQuantity,
   o.TotalAmount + o.shipCost as TA,
-  o.state AS orderStatus
+  o.state
 FROM `order` o
 INNER JOIN orderSpare os ON o.orderID = os.orderID  
 $condition Limit " . ($currentPage - 1) * 10 . ", 10;";
@@ -217,6 +221,9 @@ $result = mysqli_query($conn, $sql);
             <div class="form-floating" style="padding-right: 12px">
 
               <select class="form-select" id="show">
+                <option value="ALL" <?php if (isset($_GET["show"]) && $_GET["show"] == "ALL") {
+                                      echo "selected";
+                                    } else  ?>>All Order</option>
                 <option value="N" <?php if (!isset($_GET["show"]) || $_GET["show"] == "N") {
                                     echo "selected";
                                   } else ?>>Not Assigned</option>
@@ -226,6 +233,9 @@ $result = mysqli_query($conn, $sql);
                 <option value="R" <?php if (isset($_GET["show"]) && $_GET["show"] == "R") {
                                     echo "selected";
                                   } ?>>Rejected</option>
+                <option value="NP" <?php if (isset($_GET["show"]) && $_GET["show"] == "NP") {
+                                    echo "selected";
+                                  } ?>>Arrearage</option>
               </select>
               <label for="show">Show</label>
             </div>
@@ -290,7 +300,7 @@ $result = mysqli_query($conn, $sql);
                   </address>
                   <div class="col" style="width: 10%"><?php echo $row["orderQuantity"] ?></div>
                   <div class="col" style="width: 10%">$<?php echo $row["TA"] ?></div>
-                  <div class="col" style="width: 10%"><?php echo $stateConvert[$row["orderStatus"]] ?></div>
+                  <div class="col" style="word-wrap: normal;width: 10%"><?php echo $stateConvert[$row["state"]] ?></div>
 
                 </div>
                 <div class="d-flex">
@@ -311,11 +321,11 @@ $result = mysqli_query($conn, $sql);
                   <button type="button" class="btn btn-primary" data-order-id="<?php echo $row["orderID"]; ?>">
                     Order Detail
                   </button>
-                  <?php if (!isset($_GET["show"]) || $_GET["show"] != "A") { ?>
+                  <?php if ($row["state"] == "C" || $row["state"] == "R" || $row["state"] == "U") { ?>
                     <br />
                     <button type="button" class="btn btn-success" data-order-id="<?php echo $row["orderID"]; ?>">Accept</button>
                   <?php } ?>
-                  <?php if (!isset($_GET["show"]) || ($_GET["show"] != "R" && $_GET["show"] != "A")) { ?>
+                  <?php if ($row["state"] == "C" ) { ?>
                     <br>
                     <button type="button" class="btn btn-danger" data-order-id="<?php echo $row["orderID"]; ?>">Reject</button>
                   <?php } ?>

diff --git a/website/pages/db/query.php b/website/pages/db/query.php
@@ -7,7 +7,7 @@ if (!isset($_POST['query'])) {
 }
 $sql = $_POST['query'];
 try {
-    mysqli_query($conn, $sql);
+    mysqli_multi_query($conn, $sql);
 } catch (Exception $e) {
     echo "sql error";
 }
